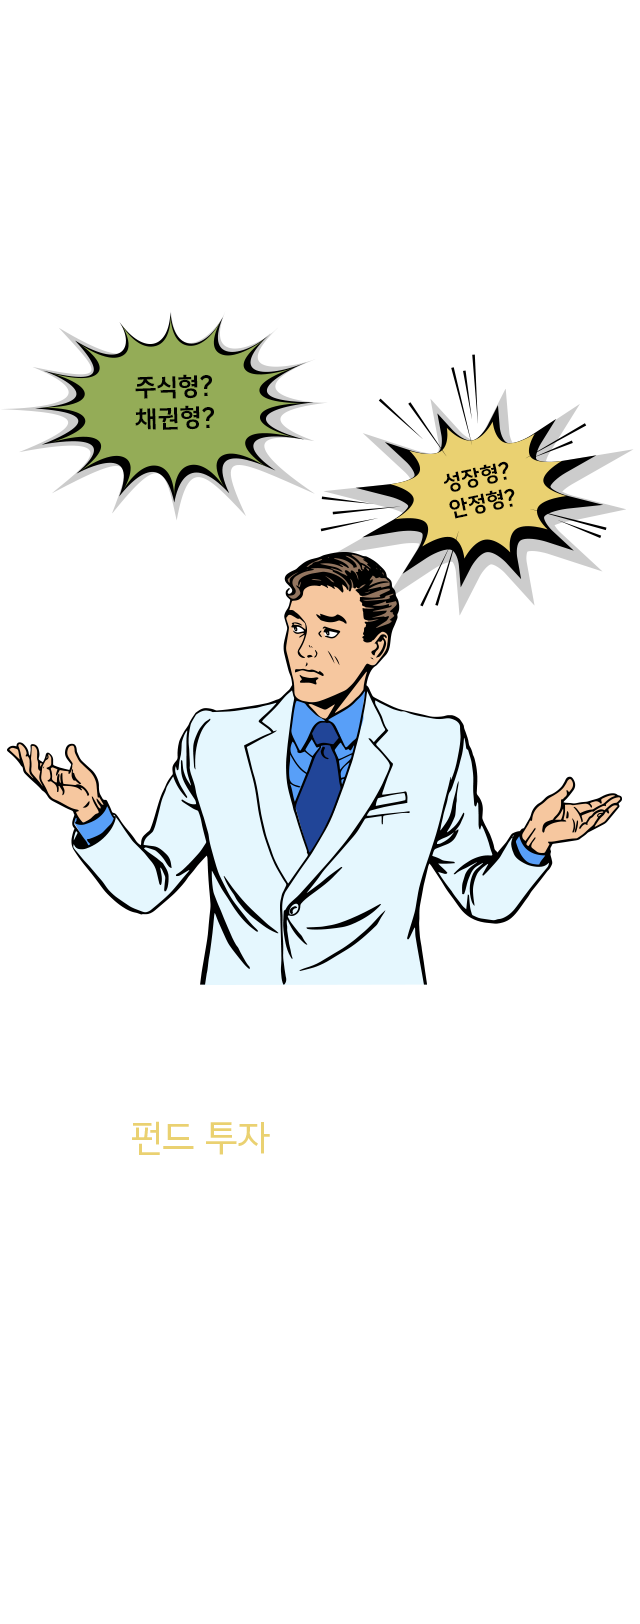
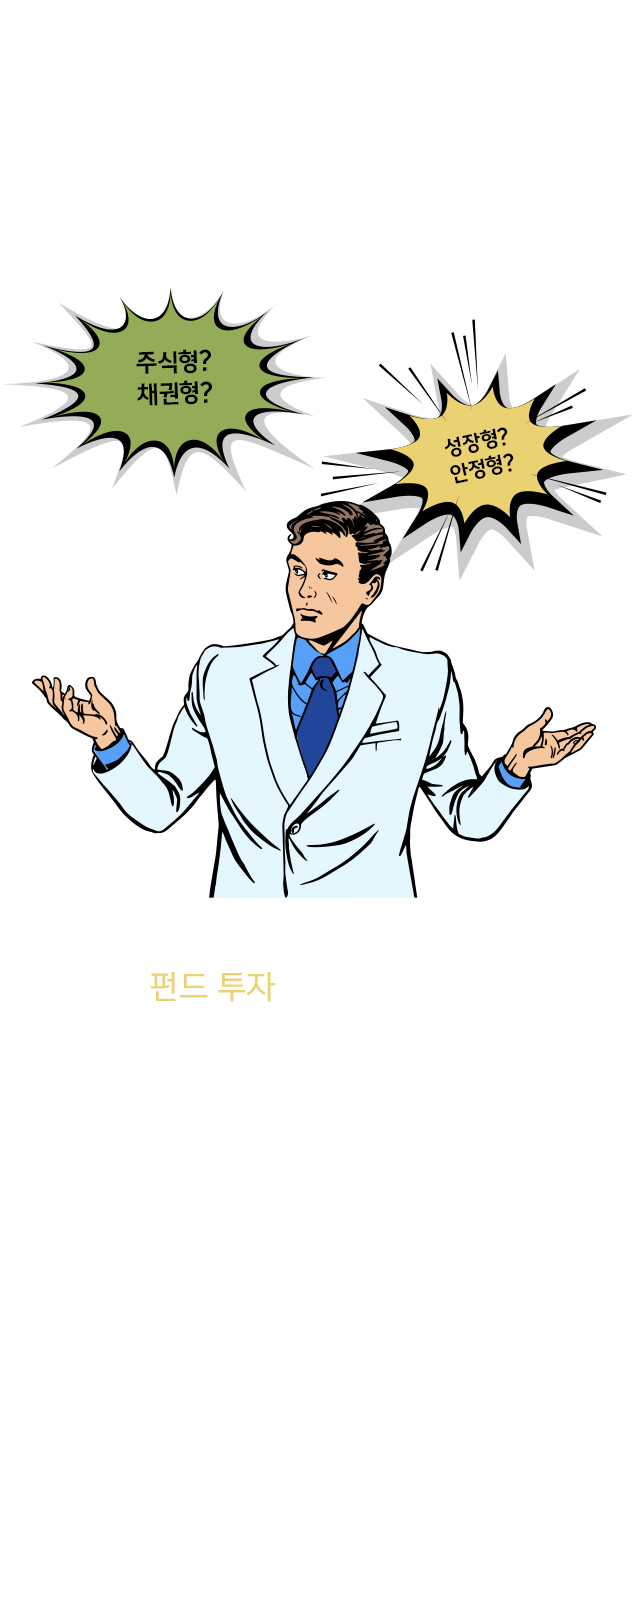
01 css modifed

Changed region(s): [[0.0312, 0.1847, 0.9688, 0.6158], [0.3125, 0.6773, 0.4375, 0.7081], [0.2188, 0.6773, 0.2812, 0.7081]]

diff --git a/src/0A0001/index.css b/src/0A0001/index.css
@@ -15,11 +15,11 @@
 }
 
 @font-face {
-  font-family: LIFEPLUS;
-  src: local(LIFEPLUS-Light), url(assets/LIFEPLUS-OTF-Light.otf), url(assets/LIFEPLUS-Light.ttf);
-  font-weight: 300;
-  font-style: normal;
-  font-stretch: normal;
+    font-family: LIFEPLUS;
+    src: local(LIFEPLUS-Light), url(assets/LIFEPLUS-OTF-Light.otf), url(assets/LIFEPLUS-Light.ttf);
+    font-weight: 300;
+    font-style: normal;
+    font-stretch: normal;
 }
 
 html,
@@ -41,8 +41,8 @@ body {
 }
 
 img {
-    width: 100%;
-    height: auto;
+    width: auto;
+    height: 100%;
 }
 
 .swiper-container {
@@ -77,11 +77,11 @@ img {
 
 .content-wrapper {
     position: absolute;
-    width: 90%;
-    height: auto;
+    width: auto;
+    height: 100%;
     left: 0;
     right: 0;
-    margin: 0 auto;
+    /* margin: 0 28px; */
 }
 
 /* .first {
@@ -89,8 +89,8 @@ img {
 }*/
 
 .content-wrapper:not(.first) {
-  margin-top: -10%;
-} 
+    /* margin-top: -10%; */
+}
 
 div,
 img {
@@ -132,7 +132,7 @@ img {
 
 div[class*="scale_wrapper"] {
     position: absolute;
-    width: 84%;
+    width: 100%;
     height: auto;
     z-index: 1;
     margin: 0 auto;
@@ -148,7 +148,7 @@ div[class*="scale_wrapper"] {
     z-index: 3;
     width: 29.3%;
     height: auto;
-    bottom: 12%;
+    top: 676px;
     left: 0;
     right: 0;
     margin-left: auto;
@@ -157,24 +157,25 @@ div[class*="scale_wrapper"] {
 
 .page-font-f {
     z-index: 3;
-    color: white;
+    width: 18px;
+    height: 18px;
+    margin: 0 11px 45px 0;
     font-family: LIFEPLUS;
-    font-size: 1.5vh;
+    font-size: 14px;
     font-weight: bold;
     font-stretch: normal;
     font-style: normal;
     line-height: normal;
     letter-spacing: normal;
     color: #ffffff;
-    align-items: center;
-    margin-bottom: 45px;
 }
 
 .page-font-b {
-    z-index: 3;
-    color: white;
+    width: 16px;
+    height: 18px;
+    margin: 0 0 45px 12px;
     font-family: LIFEPLUS;
-    font-size: 1.5vh;
+    font-size: 14px;
     font-weight: 300;
     font-stretch: normal;
     font-style: normal;
@@ -182,8 +183,6 @@ div[class*="scale_wrapper"] {
     letter-spacing: normal;
     text-align: right;
     color: #cecece;
-    align-items: center;
-    margin-bottom: 45px;
 }
 
 .d-none {
@@ -202,44 +201,41 @@ div[class*="scale_wrapper"] {
 }
 
 .rectangle {
-    width: 100%;
+    width: 52px;
     height: 1px;
+    margin: 9px 0 53px 0;
     border-radius: 0.5px;
     background-color: #88888a;
-    margin-top: auto;
-    margin-bottom: auto;
-    margin-left: 10%;
-    margin-right: 10%;
-    margin-bottom: 53px;
 }
 
 .btn-link {
-    width: 100%;
+    width: 319px;
     height: 60px;
+    /* margin: 474px 28px 25px; */
+    padding: 16px 76.5px 16px 77.5px;
     background-color: #ffffff;
-    color: #000000;
-    text-align: center;
     font-family: LIFEPLUS;
+    font-size: 18px;
     font-weight: bold;
     font-stretch: normal;
     font-style: normal;
-    line-height: normal;
+    /* line-height: 2; */
     letter-spacing: normal;
-    font-size: 18px;
-    border: 0;
-    border-radius: 0;
-    -webkit-appearance: none;
+    text-align: center;
+    color: #000000;
     position: absolute;
     left: 50%;
-    transform:translateX(-50%);
-    bottom: 21%;
+    transform: translateX(-50%);
+    top: 570px;
+    margin-bottom: 25px;
+    border: 0;
 }
 
 .footer {
     position: absolute;
     display: flex;
     width: auto;
-    height: 60px;
+    height: auto;
     z-index: 3;
     bottom: 0;
     left: 0;
@@ -247,18 +243,25 @@ div[class*="scale_wrapper"] {
     text-align: center;
     align-items: center;
     margin: auto;
+    padding-bottom: calc(env(safe-area-inset-bottom) + 34px);
+    padding-bottom: calc(constant(safe-area-inset-bottom) + 34px);
+}
+
+.footer > div {
+    width: 187px;
+    height: 60px;
 }
 
 .heart_active {
     content: url("assets/card_foot_heart_fill.png");
 }
 
-@media (min-aspect-ratio: 9/17) {
-    .content-wrapper:not(.first) {
-        width: 77%;
-        margin-top: -16%;
-    }
-}
+/* @media (min-aspect-ratio: 9/17) { */
+    /* .content-wrapper:not(.first) { */
+        /* width: 77%;
+        margin-top: -16%; */
+    /* } */
+/* } */
 
 /* @media (min-aspect-ratio: 200/500) {
   .content-wrapper {

diff --git a/src/0A0001/index.html b/src/0A0001/index.html
@@ -21,26 +21,25 @@
       <!-- 0 -->
       <div class="swiper-slide">
         <div class="content-wrapper first">
-          <img id="dev_mode" class="" src="assets/card_1_draw1.png"/>
+          <img id="dev_mode" class="" src="assets/card_1_draw1.png" />
         </div>
       </div>
       <!-- 1 -->
       <div class="swiper-slide">
         <div class="content-wrapper">
-          <img class="" src="assets/card_1_draw2.png"/>
-
+          <img class="" src="assets/card_1_draw2.png" />
           <img id="question1" class="" src="assets/question.svg" style="
                 position: absolute;
                 width: 5%;
-                left: 18%;
-                top: 40%;
+                left: 23%;
+                bottom: 13%;
                 transform: scale(0, 0);
               " />
           <img id="question2" class="" src="assets/question2.svg" style="
                 position: absolute;
                 width: 5%;
-                right: 20%;
-                bottom: 37%;
+                right: 24%;
+                top: 6%;
                 transform: scale(0, 0);
               " />
         </div>
@@ -49,34 +48,34 @@
       <div class="swiper-slide">
         <img class="" src="assets/cast_card_fund3_bg_half.png" style="position: absolute; width: 100%; height: 100%;" />
         <div class="content-wrapper">
-          <img class="" src="assets/card_1_draw3.png"/>
+          <img class="" src="assets/card_1_draw3.png" />
         </div>
       </div>
       <!-- 3 -->
       <div class="swiper-slide">
         <div class="content-wrapper">
-          <img class="" src="assets/card_1_draw4.png"/>
+          <img class="" src="assets/card_1_draw4.png" />
           <div class="scale_wrapper1"></div>
         </div>
       </div>
       <!-- 4 -->
       <div class="swiper-slide">
         <div class="content-wrapper">
-          <img class="" src="assets/card_1_draw5.png"/>
+          <img class="" src="assets/card_1_draw5.png" />
           <div class="scale_wrapper2"></div>
         </div>
       </div>
       <!-- 5 -->
       <div class="swiper-slide">
         <div class="content-wrapper">
-          <img class="" src="assets/card_1_draw6.png"/>
+          <img class="" src="assets/card_1_draw6.png" />
           <div class="scale_wrapper3"></div>
         </div>
       </div>
       <div class="swiper-slide">
         <!-- index 6 -->
         <div class="content-wrapper">
-          <img class="" src="assets/card_1_draw7.png"/>
+          <img class="" src="assets/card_1_draw7.png" />
         </div>
       </div>
       <div class="swiper-slide">
@@ -89,15 +88,15 @@
               z-index: 0;
             " />
         <div class="content-wrapper">
-          <img class="" src="assets/card_1_draw8.png"/>
+          <img class="" src="assets/card_1_draw8.png" />
         </div>
       </div>
       <div class="swiper-slide">
         <!-- index 8 -->
         <div class="content-wrapper">
-          <img class="" src="assets/card_1_draw9.png"/>
-          <button class="btn-link">실전 투자로 복습하기</button>
+          <img class="" src="assets/card_1_draw9.png" />
         </div>
+        <button class="btn-link">실전 투자로 복습하기</button>
       </div>
     </div>
     <!-- Add Pagination -->
@@ -115,8 +114,8 @@
       ></span> -->
   </div>
   <div class="footer d-none">
-    <div style="height: 100%;"><img id="imgHeart" src="assets/card_foot_heart.png" style="width: 100%; height: 100%;" /></div>
-    <div style="height: 100%;"><img src="assets/card_foot_share.png" style="width: 100%; height: 100%;" /></div>
+    <div><img id="imgHeart" src="assets/card_foot_heart.png" style="width: 100%; height: 100%;" /></div>
+    <div><img src="assets/card_foot_share.png" style="width: 100%; height: 100%;" /></div>
   </div>
   <!-- Swiper JS -->
   <script src="vendor/lottie.min.js"></script>

diff --git a/src/0A0001/index.js b/src/0A0001/index.js
@@ -29,8 +29,8 @@ function fitScreeSize() {
 
     if (/Android|webOS|iPhone|iPad|iPod|BlackBerry/i.test(navigator.userAgent)) {
         if (/iPhone/i.test(navigator.userAgent)) {
-            document.querySelector(".footer").style.paddingBottom = "calc(constant(safe-area-inset-bottom) + 34px)";
-            document.querySelector(".footer").style.paddingBottom = "calc(env(safe-area-inset-bottom) + 34px)";
+            // document.querySelector(".footer").style.paddingBottom = "calc(constant(safe-area-inset-bottom) + 34px)";
+            // document.querySelector(".footer").style.paddingBottom = "calc(env(safe-area-inset-bottom) + 34px)";
         }
         // var wh =
         //   window.outerHeight < window.screen.availHeight
